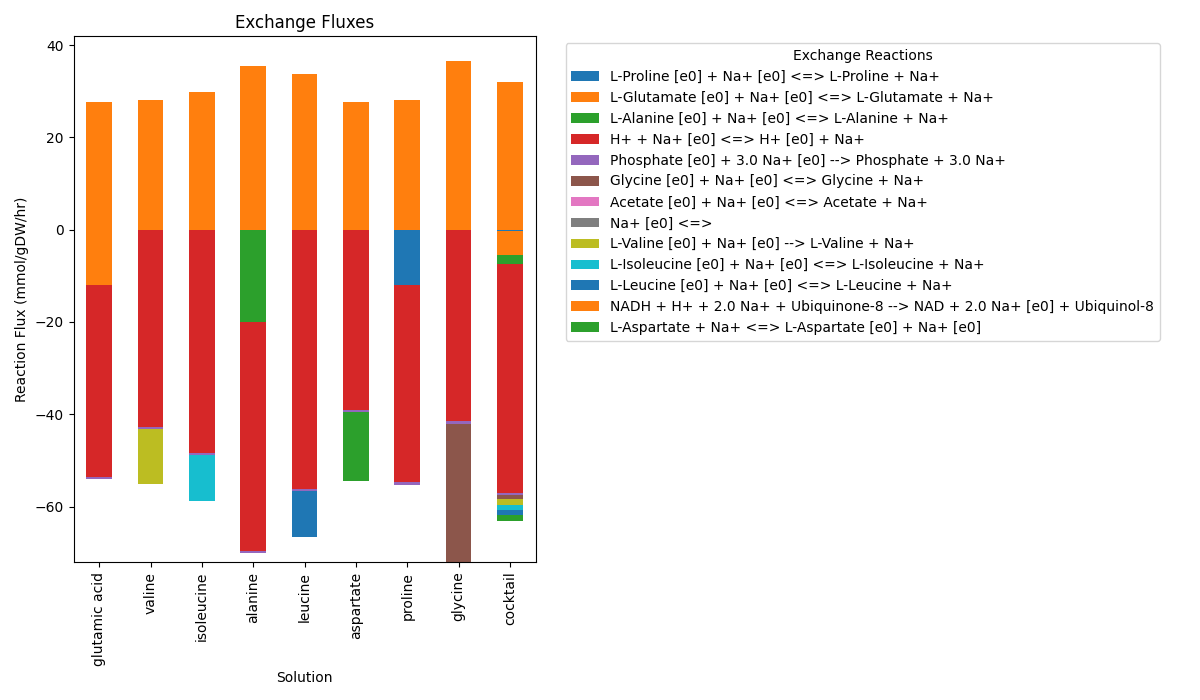
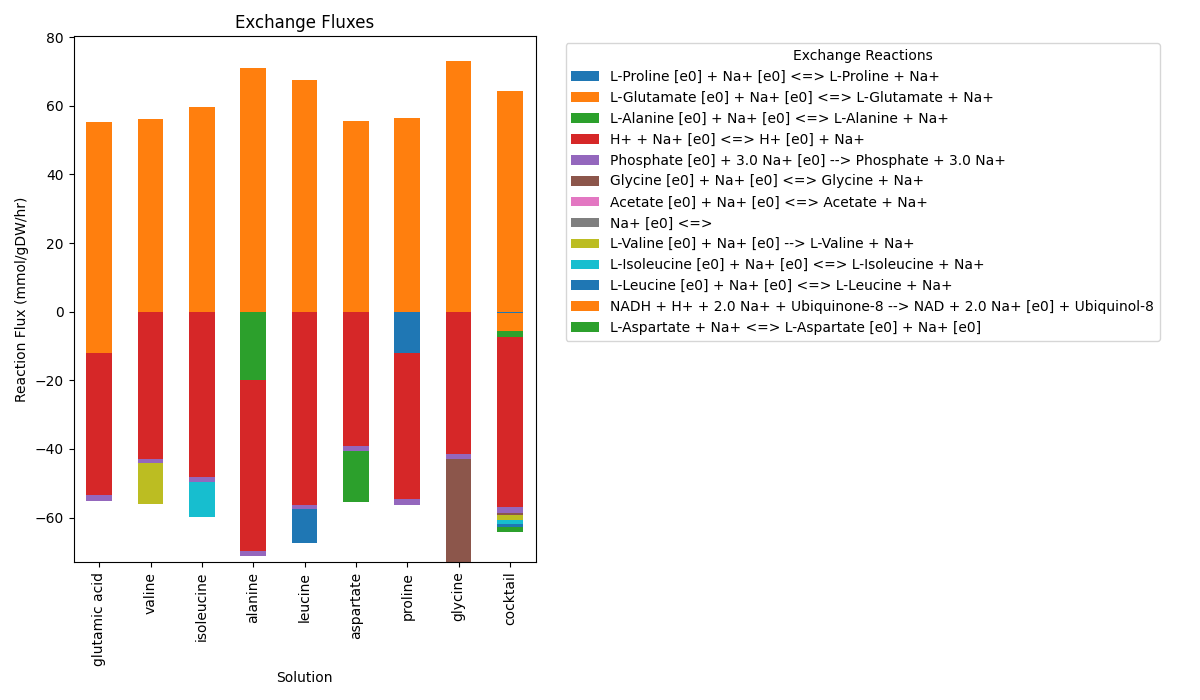
fix: handle s coeff

diff --git a/simulations/pro-top10/pmf_vs_smf/plot_smf_pmf_for_single_and_cocktail.py b/simulations/pro-top10/pmf_vs_smf/plot_smf_pmf_for_single_and_cocktail.py
@@ -87,7 +87,17 @@ na_fluxes_df = na_fluxes_df.loc[:, (na_fluxes_df != 0).any(axis=0)]
 # If the extracellular sodium is a product and the flux is negative, the sodium is moving into the cell, so keep it negative
 # We can simplify all of this to if extracellular sodium is a reactant, multiply the flux by -1, if it's a product, keep it the same
 for rxn_id in na_fluxes_df.columns:
+    # Get the reaction object
     rxn = model.reactions.get_by_id(rxn_id)
+    # Get the coefficient of the extracellular sodium in the reaction
+    s_coeff = rxn.metabolites[na_e_met]
+    # Multiply the flux by the coefficient to get the correct rate of sodium movement
+    # Only necessary if the coefficient is not -1 or 1
+    if abs(rxn.metabolites[na_e_met]) != 1:
+        na_fluxes_df[rxn_id] = na_fluxes_df[rxn_id].apply(
+            lambda flux: flux * abs(s_coeff)
+        )
+    # If the extracellular sodium is a reactant, multiply the flux by -1 to get the correct direction
     if na_e_met in rxn.reactants:
         na_fluxes_df[rxn_id] = na_fluxes_df[rxn_id].apply(lambda flux: -flux)
 
